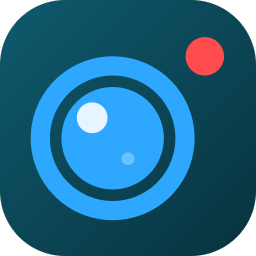
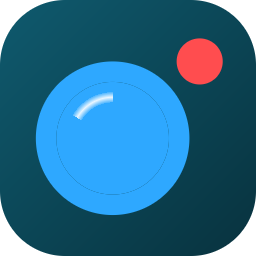
fix(web): 修复设备加载时序 bug + 重新设计软件图标
设备加载时序修复：
- 40 次轮询后仍无 token 时直接跳登录页，避免死循环
- 双重检查：轮询结束后仍无 token 则 return，不再调用 devices.load()
- 解决「登录成功却看到暂无设备」的竞态问题

图标重新设计（扁平化 2.0）：
- 外圈更粗（30/8 替代 28.25/7.5），瞳孔更大（22 替代 20）
- 高光弧线替代双圆点：单条 210°-270° 弧线，更简洁现代
- 录制指示点更大（9 替代 7.5）
- 同步更新：web/public/icon.svg、fpk/gen-icons.py、登录页内联 logo
- 重新生成全部 PNG（192/512/maskable/64/256/ICON）

验证：
- typecheck/build/gofmt/vet/test 全绿
- 前端版本戳 1.7.7、二进制版本 1.7.7 双校验通过

Changed region(s): [[0.0938, 0.2188, 0.7812, 0.875], [0.6875, 0.125, 0.875, 0.3438], [0.4688, 0.5938, 0.5312, 0.6562]]

diff --git a/web/src/views/LoginView.vue b/web/src/views/LoginView.vue
@@ -167,11 +167,10 @@ function closeReset() {
     <div class="brand">
       <!-- 与 web/public/icon.svg 同一标志：镜头 + 录制指示点 -->
       <svg viewBox="0 0 100 100" class="logo" role="img" aria-label="CyanNVR">
-        <circle cx="44" cy="54" r="28.25" fill="none" stroke="#2ea8ff" stroke-width="7.5" />
-        <circle cx="44" cy="54" r="20" fill="#2ea8ff" />
-        <circle cx="36" cy="46" r="6" fill="#ffffff" fill-opacity="0.88" />
-        <circle cx="50" cy="62" r="2.5" fill="#ffffff" fill-opacity="0.3" />
-        <circle cx="80" cy="22" r="7.5" fill="#ff4d4f" />
+        <circle cx="44" cy="54" r="30" fill="none" stroke="#2ea8ff" stroke-width="8" />
+        <circle cx="44" cy="54" r="22" fill="#2ea8ff" />
+        <path d="M 32 44 A 16 16 0 0 1 44 38" fill="none" stroke="#ffffff" stroke-width="4" stroke-linecap="round" opacity="0.9" />
+        <circle cx="78" cy="24" r="9" fill="#ff4d4f" />
       </svg>
       <h1>CyanNVR</h1>
       <p>网络视频录像机</p>

diff --git a/web/src/App.vue b/web/src/App.vue
@@ -48,8 +48,17 @@ onMounted(async () => {
   // devices.load() 会发出不带 Authorization 的 /api/devices → 401 →
   // 拦截器清空 token 并跳回登录页，表现为「登录成功却看到暂无设备」。
   // 这里等一小会儿直到 token 就位再加载设备，避免首屏 401。
+  // 注意：如果 40 次轮询后仍无 token，可能是用户未登录或 token 已过期，
+  // 此时 devices.load() 会正常走 401 拦截逻辑跳登录页，不会死循环。
   for (let i = 0; i < 40 && !localStorage.getItem('nvr_token'); i++) {
     await new Promise((r) => setTimeout(r, 50))
+  }
+  // 双重检查：如果此时仍无 token，说明用户未登录，直接跳登录页
+  if (!localStorage.getItem('nvr_token')) {
+    if (location.hash && !location.hash.includes('/login')) {
+      location.hash = '#/login'
+    }
+    return
   }
   devices.load().then(() => devices.startPolling())
   mq = window.matchMedia('(min-width: 900px)')

diff --git a/fpk/gen-icons.py b/fpk/gen-icons.py
@@ -33,16 +33,20 @@ import zlib
 VIEW = 100.0
 
 RING_CX, RING_CY = 44.0, 54.0   # 镜头中心
-RING_R_OUT = 32.0               # 外圈外径（镜筒）
-RING_R_IN = 24.5                # 外圈内径（镜圈厚 7.5）
-PUPIL_R = 20.0                  # 玻璃镜片：贴近内径只留 4.5 的缝，
-                                # 这样读起来是"镜头"而不是"录制按钮 / 靶心"
+RING_R_OUT = 30.0               # 外圈外径（镜筒，新版更粗）
+RING_R_IN = 22.0                # 外圈内径（镜圈厚 8，与 SVG stroke-width 一致）
+PUPIL_R = 22.0                  # 玻璃镜片：与外圈内径一致，更饱满
 
-HL1_CX, HL1_CY, HL1_R = 36.0, 46.0, 6.0    # 主高光（左上）
-HL2_CX, HL2_CY, HL2_R = 50.0, 62.0, 2.5    # 次高光（右下，制造体积感）
+# 新版高光：弧线替代双圆点（更简洁现代）
+# 弧线参数：圆心 (44, 54)，半径 16，从角度 210° 到 270°（左上到顶部）
+HL_ARC_CX, HL_ARC_CY = 44.0, 54.0
+HL_ARC_R = 16.0
+HL_ARC_START = 210.0            # 起始角度（度）
+HL_ARC_END = 270.0              # 结束角度（度）
+HL_ARC_WIDTH = 4.0              # 弧线宽度
 
-DOT_CX, DOT_CY, DOT_R = 80.0, 22.0, 7.5    # 录制指示点（右上）
-# 与外圈间距 = hypot(80-44, 22-54) - 7.5 - 32 ≈ 8.7，保证小尺寸下不粘连
+DOT_CX, DOT_CY, DOT_R = 78.0, 24.0, 9.0    # 录制指示点（右上，新版更大）
+# 与外圈间距 = hypot(78-44, 24-54) - 9 - 30 ≈ 7.6，保证小尺寸下不粘连
 
 # ── 配色 ──
 CYAN = (0x2E, 0xA8, 0xFF)
@@ -135,11 +139,22 @@ def render(size, maskable=False):
             a = coverage_circle(x, y, RING_CX, RING_CY, PUPIL_R, px)
             dst = over(dst, (CYAN[0], CYAN[1], CYAN[2], 1.0), a)
 
-            # 3) 高光
-            a = coverage_circle(x, y, HL1_CX, HL1_CY, HL1_R, px)
-            dst = over(dst, (WHITE[0], WHITE[1], WHITE[2], 0.88), a)
-            a = coverage_circle(x, y, HL2_CX, HL2_CY, HL2_R, px)
-            dst = over(dst, (WHITE[0], WHITE[1], WHITE[2], 0.30), a)
+            # 3) 高光弧线（新版：单条弧线替代双圆点，更简洁现代）
+            # 计算点到弧线圆心的角度，只在 210°-270° 范围内绘制
+            dx, dy = x - HL_ARC_CX, y - HL_ARC_CY
+            dist = math.hypot(dx, dy)
+            if dist > 0:
+                angle = math.degrees(math.atan2(dy, dx))
+                if angle < 0:
+                    angle += 360
+                # 弧线覆盖 = 在弧线上 + 在弧线宽度内 + 在角度范围内
+                on_arc = abs(dist - HL_ARC_R) <= HL_ARC_WIDTH / 2
+                in_angle = HL_ARC_START <= angle <= HL_ARC_END
+                if on_arc and in_angle:
+                    # 抗锯齿：按距离弧线边缘的远近插值
+                    edge_dist = abs(dist - HL_ARC_R)
+                    a = clamp(1.0 - edge_dist / (HL_ARC_WIDTH / 2 + px))
+                    dst = over(dst, (WHITE[0], WHITE[1], WHITE[2], 0.9), a)
 
             # 4) 录制指示点
             a = coverage_circle(x, y, DOT_CX, DOT_CY, DOT_R, px)

diff --git a/server/api/server.go b/server/api/server.go
@@ -63,7 +63,7 @@ type AppSettings struct {
 	AI              AIConfig `json:"ai"`
 	// TrustWindowHours 免登录信任窗口（小时）：token 过期后仍可静默续期的
 	// 时长。0=关闭。用户级 trust_window_hours 覆盖此全局默认。
-	TrustWindowHours int     `json:"trustWindowHours"`
+	TrustWindowHours int `json:"trustWindowHours"`
 }
 
 func New(cfg *config.Config, st *store.Store, rec *recorder.Manager, h *hls.Hls, am *auth.Manager, hub *SSEHub) *Server {
@@ -129,9 +129,9 @@ func defaultSettings() AppSettings {
 		OfflinePush:   true,
 		// 免登录信任窗口默认 3 天：平衡「少登录」与「异常时尽快失效」
 		TrustWindowHours: 72,
-		HTTPS:         false,
-		HTTPSPort:     443,
-		TLSCertMode:   "",
+		HTTPS:            false,
+		HTTPSPort:        443,
+		TLSCertMode:      "",
 		AI: AIConfig{
 			Enabled:   false,
 			Mode:      "local",

diff --git a/server/api/auth.go b/server/api/auth.go
@@ -208,7 +208,7 @@ func (s *Server) updateUser(c *gin.Context) {
 		Role     models.Role `json:"role"`
 		Username string      `json:"username"`
 		// TrustWindowHours 用户级免登录窗口；指针区分「未提供」与「显式清零」
-		TrustWindowHours *int64      `json:"trustWindowHours"`
+		TrustWindowHours *int64 `json:"trustWindowHours"`
 	}
 	if err := c.ShouldBindJSON(&req); err != nil {
 		c.JSON(http.StatusBadRequest, gin.H{"error": "invalid body"})

diff --git a/server/version.go b/server/version.go
@@ -20,4 +20,4 @@ package main
 //
 // 注意：本文件被 build-fpk.sh 写入，且被排除在「变更判定」的哈希之外
 // （否则每次打包都会自我触发 bump）。
-const CoreVersion = "1.7.5"
+const CoreVersion = "1.7.7"
